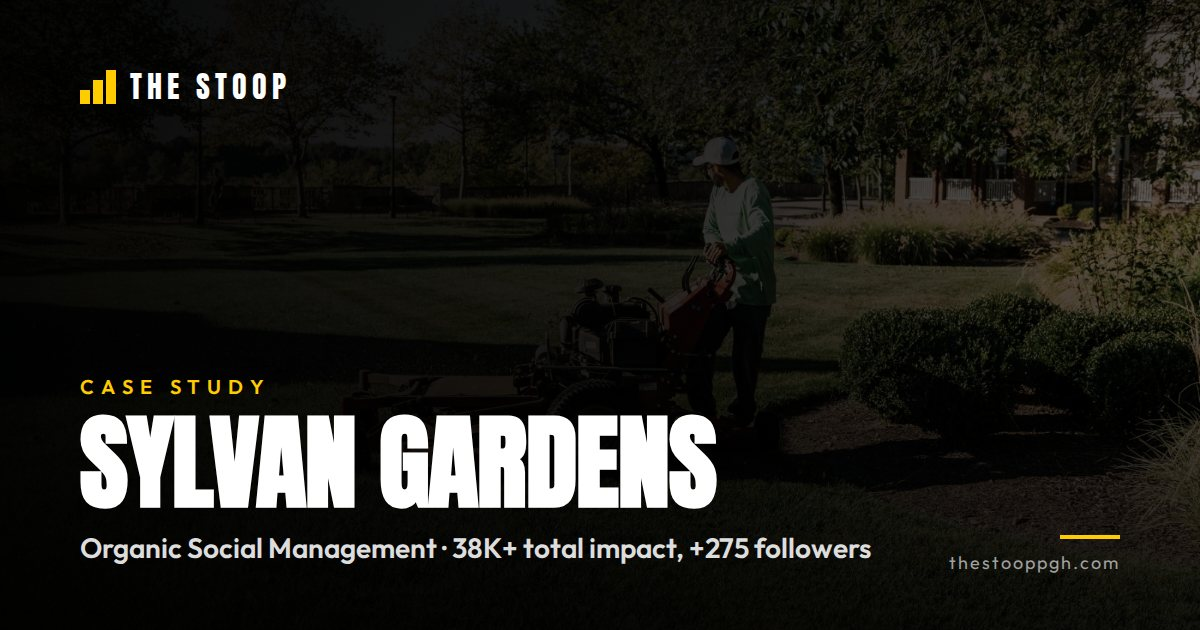
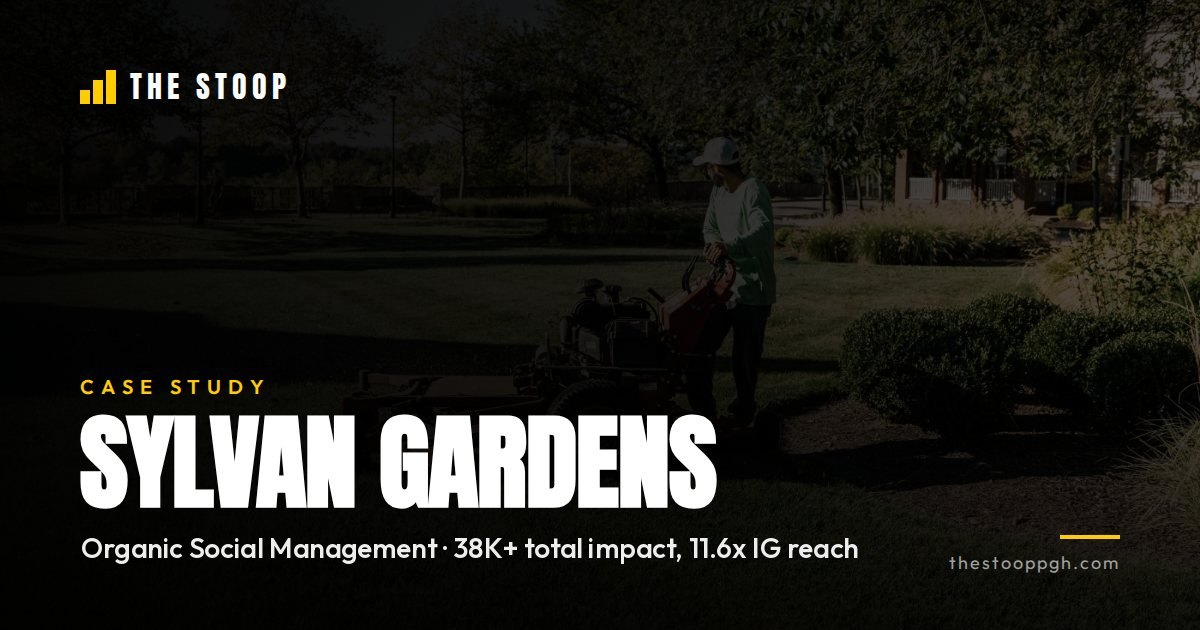
Use Mike's follower baselines for Union Trust and Sylvan Gardens
Union Trust Building: the Q1 2024 report's year-end count (821 IG,
216 FB) is the 2023 baseline, so 2024 follower growth is added:
Instagram 821 -> 1,057 (+29%), Facebook 216 -> 271 (+25%), on the page,
its FAQ (visible and schema) and the llms files.

Sylvan Gardens: the full-year report's net follower gain is the
trusted figure (43 -> 181: Facebook 34 -> 95, Instagram 9 -> 86), so
the nine-month "+275 followers" and the monthly "+N IG followers"
figures come off the site:
- Case study: headline and Results stats (+181 net followers, year
  one), full-year paragraph and list, FAQ (visible and schema); the
  Q2 stat row shows peak IG reach instead of +87 followers
- Home and Work cards, Reviews, FAQ page (visible and schema), Pricing
- Blog post: description, TL;DR, The Numbers (+181, 11.6x IG reach),
  the "more than 4x the year before" context, and the 38K+ source
  corrected to the nine months of monthly reports; blog index excerpt
  and RSS description
- Share image: the subtitle now reads "38K+ total impact, 11.6x IG
  reach" (only that line was redrawn)

Claude-Session: https://claude.ai/code/session_01BuaupkKchAW7EzjXaLCXsE

Changed region(s): [[0.0617, 0.8444, 0.74, 0.9048]]

diff --git a/work/sylvan-gardens.html b/work/sylvan-gardens.html
@@ -61,7 +61,7 @@ j=d.createElement(s),dl=l!='dataLayer'?'&l='+l:'';j.async=true;j.src=
  "description": "How The Stoop managed organic social media, content development, and community management for Sylvan Gardens, a Pittsburgh-area landscaping company.",
  "image": "https://thestooppgh.com/assets/og/sylvan-gardens.jpg",
  "datePublished": "2026-04-17",
- "dateModified": "2026-09-24",
+ "dateModified": "2026-09-25",
  "author": {
   "@type": "Organization",
   "@id": "https://thestooppgh.com/#organization",
@@ -131,7 +131,7 @@ j=d.createElement(s),dl=l!='dataLayer'?'&l='+l:'';j.async=true;j.src=
    "name": "What results did Sylvan Gardens see?",
    "acceptedAnswer": {
     "@type": "Answer",
-    "text": "38,000+ total impact across Facebook and Instagram, 275 net new followers, and a peak Instagram reach of 1,400 in May 2024 over the first nine months of management. Over the full year from April 2024 to April 2025, compared with the year before, Instagram reach grew from 575 to 6,690 accounts and Facebook reach from 2,022 to 4,674."
+    "text": "38,000+ total impact across Facebook and Instagram and a peak Instagram reach of 1,400 in May 2024 over the first nine months of management. Over the full year from April 2024 to April 2025, compared with the year before, Instagram reach grew from 575 to 6,690 accounts, Facebook reach from 2,022 to 4,674, and net follower gain from 43 to 181."
    }
   },
   {
@@ -220,8 +220,8 @@ j=d.createElement(s),dl=l!='dataLayer'?'&l='+l:'';j.async=true;j.src=
       <div class="metric-label">Total Impact (FB + IG)</div>
     </div>
     <div class="metric reveal">
-      <div class="metric-val">+275</div>
-      <div class="metric-label">Net Followers Gained</div>
+      <div class="metric-val">+181</div>
+      <div class="metric-label">Net Followers, Year One</div>
     </div>
     <div class="metric reveal">
       <div class="metric-val">13+</div>
@@ -290,7 +290,7 @@ j=d.createElement(s),dl=l!='dataLayer'?'&l='+l:'';j.async=true;j.src=
 <section class="campaigns" style="background: var(--dark-grey);">
 <div class="section-type-label reveal">Workstream 3 &mdash; Organic Social Media Management</div>
 <h2 class="reveal">Facebook & Instagram Retainer</h2>
-<div class="cs-stats reveal"><div class="cs-stat"><div class="cs-stat-val is-long">20,173</div><div class="cs-stat-label">Combined Impact</div></div><div class="cs-stat"><div class="cs-stat-val">+87</div><div class="cs-stat-label">IG Followers Gained</div></div><div class="cs-stat"><div class="cs-stat-val">2,912</div><div class="cs-stat-label">IG Accounts Reached</div></div></div>
+<div class="cs-stats reveal"><div class="cs-stat"><div class="cs-stat-val is-long">20,173</div><div class="cs-stat-label">Combined Impact</div></div><div class="cs-stat"><div class="cs-stat-val">1,400</div><div class="cs-stat-label">Peak IG Reach (May 2024)</div></div><div class="cs-stat"><div class="cs-stat-val">2,912</div><div class="cs-stat-label">IG Accounts Reached</div></div></div>
 <p class="cs-meta reveal">Q2 2024 &middot; April&ndash;June &middot; Facebook &middot; Instagram &middot; Monthly Analytics Reporting</p>
 <p class="reveal" style="text-align:center; max-width:760px; margin:0 auto 32px; padding:0 24px; font-size:15px; line-height:1.8; color:var(--mid);">A long-term retainer covering the full organic social workflow for Facebook and Instagram &mdash; from the monthly calendar and post creation through community management and analytics reporting.</p>
 <div class="reveal" style="max-width:900px; margin:32px auto 0; padding:0 24px; text-align:center;">
@@ -361,23 +361,23 @@ j=d.createElement(s),dl=l!='dataLayer'?'&l='+l:'';j.async=true;j.src=
 <section class="campaigns">
 <div class="section-type-label reveal">The Results</div>
 <h2 class="reveal">Consistent Content, <span class="accent">Measurable Growth</span></h2>
-<div class="cs-stats reveal cs-stats--big"><div class="cs-stat"><div class="cs-stat-val">38K+</div><div class="cs-stat-label">Total Impact (FB + IG)</div></div><div class="cs-stat"><div class="cs-stat-val">+275</div><div class="cs-stat-label">Net Followers Gained</div></div><div class="cs-stat"><div class="cs-stat-val">13+</div><div class="cs-stat-label">Months Managed</div></div><div class="cs-stat"><div class="cs-stat-val">11.6x</div><div class="cs-stat-label">IG Reach vs. Prior Year</div></div></div>
-<p class="reveal" style="text-align:center; max-width:760px; margin:48px auto 0; padding:0 24px; font-size:15px; line-height:1.8; color:var(--mid);">Over the first nine months of management, The Stoop delivered a combined 38,000+ total impact across Facebook and Instagram, grew the audience by 275 net followers, and produced consistent, professional content that showcased Sylvan Gardens' craftsmanship.</p>
+<div class="cs-stats reveal cs-stats--big"><div class="cs-stat"><div class="cs-stat-val">38K+</div><div class="cs-stat-label">Total Impact (FB + IG)</div></div><div class="cs-stat"><div class="cs-stat-val">+181</div><div class="cs-stat-label">Net Followers, Year One</div></div><div class="cs-stat"><div class="cs-stat-val">13+</div><div class="cs-stat-label">Months Managed</div></div><div class="cs-stat"><div class="cs-stat-val">11.6x</div><div class="cs-stat-label">IG Reach vs. Prior Year</div></div></div>
+<p class="reveal" style="text-align:center; max-width:760px; margin:48px auto 0; padding:0 24px; font-size:15px; line-height:1.8; color:var(--mid);">Over the first nine months of management, The Stoop delivered a combined 38,000+ total impact across Facebook and Instagram and produced consistent, professional content that showcased Sylvan Gardens' craftsmanship.</p>
 <p class="reveal" style="text-align:center; max-width:760px; margin:24px auto 48px; padding:0 24px; font-size:15px; line-height:1.8; color:var(--mid);">The team spotlight series and project showcases became the highest-performing content formats, with posts like 'Meet Jesus,' 'An Incredible Stone Patio Transformation,' and 'Meet the Green Team' driving the strongest engagement. Monthly analytics reporting gave Sylvan Gardens clear visibility into what was working and where to double down.</p>
 <div class="case-content" style="padding:0 24px;">
 <h3 class="reveal" style="font-size:13px; letter-spacing:2px; text-transform:uppercase; margin-bottom:12px;">Monthly Highlights</h3>
 <ul class="reveal cs-list">
-<li>April 2024 &mdash; 7,578 total impact, +49 IG followers, 977 IG accounts reached</li>
-<li>May 2024 &mdash; 7,693 total impact, +13 IG followers, 1,400 IG accounts reached (peak reach)</li>
-<li>June 2024 &mdash; 4,902 total impact, +25 IG followers, 535 IG accounts reached</li>
-<li>Q2 2024 subtotal (Apr&ndash;Jun) &mdash; 20,173 combined impact, +87 IG followers, 2,912 IG accounts reached</li>
-<li>August 2024 &mdash; 4,034 total impact, +18 IG followers, 734 IG accounts reached</li>
-<li>September 2024 &mdash; 3,488 total impact, +12 IG followers, 898 IG accounts reached</li>
-<li>October 2024 &mdash; 4,432 total impact, +14 IG followers, 807 IG accounts reached</li>
-<li>November 2024 &mdash; 2,692 total impact, +8 IG followers, 377 IG accounts reached</li>
-<li>December 2024 &mdash; 2,453 total impact, +5 IG followers, 451 IG accounts reached</li>
+<li>April 2024 &mdash; 7,578 total impact, 977 IG accounts reached</li>
+<li>May 2024 &mdash; 7,693 total impact, 1,400 IG accounts reached (peak reach)</li>
+<li>June 2024 &mdash; 4,902 total impact, 535 IG accounts reached</li>
+<li>Q2 2024 subtotal (Apr&ndash;Jun) &mdash; 20,173 combined impact, 2,912 IG accounts reached</li>
+<li>August 2024 &mdash; 4,034 total impact, 734 IG accounts reached</li>
+<li>September 2024 &mdash; 3,488 total impact, 898 IG accounts reached</li>
+<li>October 2024 &mdash; 4,432 total impact, 807 IG accounts reached</li>
+<li>November 2024 &mdash; 2,692 total impact, 377 IG accounts reached</li>
+<li>December 2024 &mdash; 2,453 total impact, 451 IG accounts reached</li>
 </ul>
-<p class="reveal" style="text-align:center; max-width:760px; margin:40px auto 24px; padding:0; font-size:15px; line-height:1.8; color:var(--mid);">The full-year report told the bigger story. From April 2024 through April 2025, compared with the year before The Stoop took over (March 2023 to March 2024), Instagram reached 6,690 accounts, up from 575, and content interactions rose from 47 to 1,785. On Facebook, reach grew from 2,022 to 4,674 accounts, interactions from 61 to 1,189, and page visits from 1,713 to 6,491. Over the year, the content drew 30,257 views on Facebook and 22,872 on Instagram.</p>
+<p class="reveal" style="text-align:center; max-width:760px; margin:40px auto 24px; padding:0; font-size:15px; line-height:1.8; color:var(--mid);">The full-year report told the bigger story. From April 2024 through April 2025, compared with the year before The Stoop took over (March 2023 to March 2024), Instagram reached 6,690 accounts, up from 575, and content interactions rose from 47 to 1,785. On Facebook, reach grew from 2,022 to 4,674 accounts, interactions from 61 to 1,189, and page visits from 1,713 to 6,491. Net follower gain rose from 43 to 181 across the two platforms: 34 to 95 on Facebook and 9 to 86 on Instagram. Over the year, the content drew 30,257 views on Facebook and 22,872 on Instagram.</p>
 <h3 class="reveal" style="font-size:13px; letter-spacing:2px; text-transform:uppercase; margin-bottom:12px;">Full Year vs. the Year Before</h3>
 <ul class="reveal cs-list">
 <li>Instagram accounts reached &mdash; 575 &rarr; 6,690 (11.6x)</li>
@@ -386,6 +386,7 @@ j=d.createElement(s),dl=l!='dataLayer'?'&l='+l:'';j.async=true;j.src=
 <li>Facebook accounts reached &mdash; 2,022 &rarr; 4,674 (2.3x)</li>
 <li>Facebook content interactions &mdash; 61 &rarr; 1,189</li>
 <li>Facebook page visits &mdash; 1,713 &rarr; 6,491 (3.8x)</li>
+<li>Net follower gain &mdash; 43 &rarr; 181 (Facebook 34 &rarr; 95, Instagram 9 &rarr; 86)</li>
 <li>Views, April 2024 &ndash; April 2025 &mdash; 30,257 on Facebook, 22,872 on Instagram</li>
 </ul>
 </div>
@@ -402,7 +403,7 @@ j=d.createElement(s),dl=l!='dataLayer'?'&l='+l:'';j.async=true;j.src=
   <div style="max-width:800px; margin:24px auto 0; padding:0 24px;">
     <details class="reveal" style="border-bottom:1px solid rgba(255,255,255,0.06); padding:20px 0;">
       <summary style="font-size:15px; font-weight:700; color:var(--white); cursor:pointer; list-style:none; display:flex; justify-content:space-between; align-items:center; gap:16px;">What results did Sylvan Gardens see? <span style="color:var(--yellow);">+</span></summary>
-      <p style="font-size:14px; line-height:1.8; color:var(--mid); margin-top:12px;">38,000+ total impact across Facebook and Instagram, 275 net new followers, and a peak Instagram reach of 1,400 in May 2024 over the first nine months of management. Over the full year from April 2024 to April 2025, compared with the year before, Instagram reach grew from 575 to 6,690 accounts and Facebook reach from 2,022 to 4,674.</p>
+      <p style="font-size:14px; line-height:1.8; color:var(--mid); margin-top:12px;">38,000+ total impact across Facebook and Instagram and a peak Instagram reach of 1,400 in May 2024 over the first nine months of management. Over the full year from April 2024 to April 2025, compared with the year before, Instagram reach grew from 575 to 6,690 accounts, Facebook reach from 2,022 to 4,674, and net follower gain from 43 to 181.</p>
     </details>
     <details class="reveal" style="border-bottom:1px solid rgba(255,255,255,0.06); padding:20px 0;">
       <summary style="font-size:15px; font-weight:700; color:var(--white); cursor:pointer; list-style:none; display:flex; justify-content:space-between; align-items:center; gap:16px;">What did the retainer include? <span style="color:var(--yellow);">+</span></summary>

diff --git a/blog/organic-social-growth-landscaping.html b/blog/organic-social-growth-landscaping.html
@@ -29,9 +29,9 @@ j=d.createElement(s),dl=l!='dataLayer'?'&l='+l:'';j.async=true;j.src=
 <script>document.documentElement.classList.add('js');</script>
 <meta name="viewport" content="width=device-width, initial-scale=1.0, viewport-fit=cover">
 <title>9 Months of Organic Social for a Landscaper — THE STOOP</title>
-<meta name="description" content="How a strategy-first, organic-only approach drove 38K+ impact and +275 followers for Sylvan Gardens across 9 months of social media management.">
+<meta name="description" content="How a strategy-first, organic-only approach drove 38K+ impact in nine months and four times the prior year’s follower growth for Sylvan Gardens.">
 <meta property="og:title" content="9 Months of Organic Social: Growing a Landscaping Business on Instagram — THE STOOP">
-<meta property="og:description" content="How a strategy-first, organic-only approach drove 38K+ impact and +275 followers for Sylvan Gardens across 9 months.">
+<meta property="og:description" content="How a strategy-first, organic-only approach drove 38K+ impact in nine months and four times the prior year’s follower growth for Sylvan Gardens.">
 <meta property="og:type" content="article">
 <meta property="article:published_time" content="2026-03-11">
 <meta property="article:modified_time" content="2026-04-18">
@@ -61,10 +61,10 @@ j=d.createElement(s),dl=l!='dataLayer'?'&l='+l:'';j.async=true;j.src=
  "@type": "BlogPosting",
  "@id": "https://thestooppgh.com/blog/organic-social-growth-landscaping.html#article",
  "headline": "9 Months of Organic Social: Growing a Landscaping Business on Instagram",
- "description": "How a strategy-first, organic-only approach drove 38K+ impact and +275 followers for Sylvan Gardens across 9 months of social media management.",
+ "description": "How a strategy-first, organic-only approach drove 38K+ impact in nine months and four times the prior year’s follower growth for Sylvan Gardens.",
  "image": "https://thestooppgh.com/assets/og/organic-social-growth-landscaping.png",
  "datePublished": "2026-03-11",
- "dateModified": "2026-04-18",
+ "dateModified": "2026-09-25",
  "author": {
   "@type": "Person",
   "@id": "https://thestooppgh.com/founder.html#person",
@@ -163,7 +163,7 @@ j=d.createElement(s),dl=l!='dataLayer'?'&l='+l:'';j.async=true;j.src=
 
 <div class="article-body">
 
-  <div class="reveal" style="background:rgba(255,204,0,0.05);border:1px solid rgba(255,204,0,0.15);padding:24px;margin-bottom:32px;font-size:14px;line-height:1.8;color:var(--mid);"><strong>TL;DR:</strong> 9 months of organic-only social media management for Sylvan Gardens (Pittsburgh landscaping company) drove 38K+ total impact and +275 net followers with zero ad spend. Strategy-first approach: content audit before posting, 5 content pillars, consistent 3-4 posts/week.</div>
+  <div class="reveal" style="background:rgba(255,204,0,0.05);border:1px solid rgba(255,204,0,0.15);padding:24px;margin-bottom:32px;font-size:14px;line-height:1.8;color:var(--mid);"><strong>TL;DR:</strong> 9 months of organic-only social media management for Sylvan Gardens (Pittsburgh landscaping company) drove 38K+ total impact with zero ad spend. Over the first full year, net follower gain rose from 43 to 181. Strategy-first approach: content audit before posting, 5 content pillars, consistent 3-4 posts/week.</div>
 
   <h2 class="reveal">The Challenge</h2>
   <p class="reveal">Sylvan Gardens is a residential and commercial landscaping company based in Ingomar, PA. When The Stoop came on in April 2024, the numbers told a frustrating story:</p>
@@ -205,11 +205,11 @@ j=d.createElement(s),dl=l!='dataLayer'?'&l='+l:'';j.async=true;j.src=
   <h2 class="reveal">The Numbers</h2>
   <div class="stat-grid reveal">
     <div class="stat-box"><div class="num">38K+</div><div class="label">Total Impact</div></div>
-    <div class="stat-box"><div class="num">+275</div><div class="label">Net New Followers</div></div>
-    <div class="stat-box"><div class="num">9 mo.</div><div class="label">Engagement Duration</div></div>
+    <div class="stat-box"><div class="num">+181</div><div class="label">Net New Followers, Year One</div></div>
+    <div class="stat-box"><div class="num">11.6x</div><div class="label">Instagram Reach, Year One</div></div>
   </div>
-  <p class="reveal">Context on why +275 is meaningful: Sylvan Gardens' prior-year organic growth was 43 followers for the entire year. We delivered <strong>more than 6x that growth in 9 months &mdash; without spending a dollar on ads.</strong></p>
-  <p class="reveal">The 38K+ total impact number reflects impressions, reach, and engagement across Facebook and Instagram combined, captured in the Full Year Analytical Report we delivered at wrap. Employee Spotlights and Install showcase posts drove the strongest per-post performance.</p>
+  <p class="reveal">Context on why +181 is meaningful: in the year before The Stoop started (March 2023 to March 2024), Sylvan Gardens gained 43 net followers across Facebook and Instagram. Over the first full year of management it gained 181, <strong>more than four times as many, without spending a dollar on ads.</strong></p>
+  <p class="reveal">The 38K+ total impact number reflects impressions, reach, and engagement across Facebook and Instagram combined over the first nine months of monthly reports. The full-year report (April 2024 to April 2025) showed Instagram reach up from 575 to 6,690 accounts and Facebook reach up from 2,022 to 4,674, compared with the year before. Employee Spotlights and Install showcase posts drove the strongest per-post performance.</p>
 
   <h2 class="reveal">Why Organic Still Matters</h2>
   <p class="reveal">It is fashionable in marketing to say "organic is dead." It isn't &mdash; it's just slower, harder, and more dependent on craft. For service businesses like landscaping, organic social delivers something paid can't:</p>
@@ -237,7 +237,7 @@ j=d.createElement(s),dl=l!='dataLayer'?'&l='+l:'';j.async=true;j.src=
   </div>
   <div class="reveal" style="border-bottom:1px solid rgba(255,255,255,0.06);padding:20px 0;">
     <h3 style="font-size:15px;font-weight:700;color:var(--white);margin-bottom:10px;">Can you grow social media without paid ads?</h3>
-    <p style="font-size:14px;line-height:1.8;color:var(--mid);">Yes. Sylvan Gardens achieved 38K+ total impact and +275 followers over 9 months with zero ad spend through consistent, diversified content.</p>
+    <p style="font-size:14px;line-height:1.8;color:var(--mid);">Yes. Sylvan Gardens achieved 38K+ total impact in the first 9 months, and 181 net new followers over the first full year, with zero ad spend through consistent, diversified content.</p>
   </div>
 
   <div class="cta-box reveal">

diff --git a/work/union-trust-building.html b/work/union-trust-building.html
@@ -139,7 +139,7 @@ j=d.createElement(s),dl=l!='dataLayer'?'&l='+l:'';j.async=true;j.src=
    "name": "What results did the Union Trust Building see?",
    "acceptedAnswer": {
     "@type": "Answer",
-    "text": "Instagram followers grew from 821 to 1,004 (+22%) between the end of 2023 and the end of Q2 2024, and quarterly Instagram reach grew from 3,052 to 8,000 accounts over the same span. Instagram content interactions rose from 311 to 1,100 quarter over quarter after monthly management began. Across all of 2024, compared with 2023, Instagram accounts reached grew from 4,200 to 16,600 and Instagram views from 6,100 to 24,100."
+    "text": "Instagram followers grew from 821 to 1,004 (+22%) between the end of 2023 and the end of Q2 2024, and quarterly Instagram reach grew from 3,052 to 8,000 accounts over the same span. Instagram content interactions rose from 311 to 1,100 quarter over quarter after monthly management began. Across all of 2024, compared with 2023, Instagram accounts reached grew from 4,200 to 16,600, Instagram views from 6,100 to 24,100, and Instagram followers from 821 to 1,057 (+29%)."
    }
   },
   {
@@ -431,7 +431,7 @@ j=d.createElement(s),dl=l!='dataLayer'?'&l='+l:'';j.async=true;j.src=
 <li>Q2 2024 &mdash; 12,700 Facebook impressions, up from 12,100 in Q1</li>
 <li>Dec 2023 &ndash; Mar 2025 &mdash; 49,738 Instagram and 14,111 Facebook views logged across 219 posts and stories</li>
 </ul>
-<p class="reveal" style="text-align:center; max-width:760px; margin:40px auto 24px; padding:0; font-size:15px; line-height:1.8; color:var(--mid);">The full year held up. In 2024, the first full year of monthly management, Instagram reached 16,600 accounts, up from 4,200 in 2023, and drew 24,100 views, up from 6,100. Content interactions rose from 255 to 1,000 on Instagram and from 218 to 1,500 on Facebook, where reach grew from 8,000 to 11,600 accounts. The Instagram account ended 2024 at 1,057 followers. The Stoop took over in October 2023, so the 2023 figures already include its first three months.</p>
+<p class="reveal" style="text-align:center; max-width:760px; margin:40px auto 24px; padding:0; font-size:15px; line-height:1.8; color:var(--mid);">The full year held up. In 2024, the first full year of monthly management, Instagram reached 16,600 accounts, up from 4,200 in 2023, and drew 24,100 views, up from 6,100. Content interactions rose from 255 to 1,000 on Instagram and from 218 to 1,500 on Facebook, where reach grew from 8,000 to 11,600 accounts. Instagram followers grew from 821 at the end of 2023 to 1,057 at the end of 2024, up 29%. The Stoop took over in October 2023, so the 2023 figures already include its first three months.</p>
 <h3 class="reveal" style="font-size:13px; letter-spacing:2px; text-transform:uppercase; margin-bottom:12px;">2024 vs. 2023</h3>
 <ul class="reveal cs-list">
 <li>Instagram accounts reached &mdash; 4,200 &rarr; 16,600</li>
@@ -441,7 +441,8 @@ j=d.createElement(s),dl=l!='dataLayer'?'&l='+l:'';j.async=true;j.src=
 <li>Facebook accounts reached &mdash; 8,000 &rarr; 11,600</li>
 <li>Facebook content interactions &mdash; 218 &rarr; 1,500</li>
 <li>Facebook page visits &mdash; 1,600 &rarr; 2,500</li>
-<li>Followers at the end of 2024 &mdash; 1,057 on Instagram, 271 on Facebook</li>
+<li>Instagram followers &mdash; 821 &rarr; 1,057 (+29%)</li>
+<li>Facebook followers &mdash; 216 &rarr; 271 (+25%)</li>
 </ul>
 </div>
 <div class="reveal" style="text-align:center; margin-top:32px;">
@@ -457,7 +458,7 @@ j=d.createElement(s),dl=l!='dataLayer'?'&l='+l:'';j.async=true;j.src=
   <div style="max-width:800px; margin:24px auto 0; padding:0 24px;">
     <details class="reveal" style="border-bottom:1px solid rgba(255,255,255,0.06); padding:20px 0;">
       <summary style="font-size:15px; font-weight:700; color:var(--white); cursor:pointer; list-style:none; display:flex; justify-content:space-between; align-items:center; gap:16px;">What results did the Union Trust Building see? <span style="color:var(--yellow);">+</span></summary>
-      <p style="font-size:14px; line-height:1.8; color:var(--mid); margin-top:12px;">Instagram followers grew from 821 to 1,004 (+22%) between the end of 2023 and the end of Q2 2024, and quarterly Instagram reach grew from 3,052 to 8,000 accounts over the same span. Instagram content interactions rose from 311 to 1,100 quarter over quarter after monthly management began. Across all of 2024, compared with 2023, Instagram accounts reached grew from 4,200 to 16,600 and Instagram views from 6,100 to 24,100.</p>
+      <p style="font-size:14px; line-height:1.8; color:var(--mid); margin-top:12px;">Instagram followers grew from 821 to 1,004 (+22%) between the end of 2023 and the end of Q2 2024, and quarterly Instagram reach grew from 3,052 to 8,000 accounts over the same span. Instagram content interactions rose from 311 to 1,100 quarter over quarter after monthly management began. Across all of 2024, compared with 2023, Instagram accounts reached grew from 4,200 to 16,600, Instagram views from 6,100 to 24,100, and Instagram followers from 821 to 1,057 (+29%).</p>
     </details>
     <details class="reveal" style="border-bottom:1px solid rgba(255,255,255,0.06); padding:20px 0;">
       <summary style="font-size:15px; font-weight:700; color:var(--white); cursor:pointer; list-style:none; display:flex; justify-content:space-between; align-items:center; gap:16px;">What did the engagement include? <span style="color:var(--yellow);">+</span></summary>

diff --git a/faq.html b/faq.html
@@ -151,7 +151,7 @@ j=d.createElement(s),dl=l!='dataLayer'?'&l='+l:'';j.async=true;j.src=
    "name": "How long does it take to see results from organic social?",
    "acceptedAnswer": {
     "@type": "Answer",
-    "text": "Organic social is a long game. Expect 3–6 months of consistent posting to build meaningful momentum. For Sylvan Gardens, we drove 38K+ total impact and +275 net followers over 9 months of management — all with zero ad spend. The compound effect of consistent, quality content is the value proposition."
+    "text": "Organic social is a long game. Expect 3–6 months of consistent posting to build meaningful momentum. For Sylvan Gardens, we drove 38K+ total impact in the first 9 months, then 181 net new followers over the first full year, more than four times the year before — all with zero ad spend. The compound effect of consistent, quality content is the value proposition."
    }
   },
   {
@@ -312,7 +312,7 @@ j=d.createElement(s),dl=l!='dataLayer'?'&l='+l:'';j.async=true;j.src=
 
   <div class="reveal" style="border-bottom:1px solid rgba(255,255,255,0.06); padding:24px 0;">
     <h3 style="font-size:16px; font-weight:700; color:var(--white); margin-bottom:12px;">How long does it take to see results from organic social?</h3>
-    <p style="font-size:14px; line-height:1.8; color:var(--mid);">Organic social is a long game. Expect 3&ndash;6 months of consistent posting to build meaningful momentum. For Sylvan Gardens, we drove 38K+ total impact and +275 net followers over 9 months of management &mdash; all with zero ad spend. The compound effect of consistent, quality content is the value proposition.</p>
+    <p style="font-size:14px; line-height:1.8; color:var(--mid);">Organic social is a long game. Expect 3&ndash;6 months of consistent posting to build meaningful momentum. For Sylvan Gardens, we drove 38K+ total impact in the first 9 months, then 181 net new followers over the first full year, more than four times the year before &mdash; all with zero ad spend. The compound effect of consistent, quality content is the value proposition.</p>
   </div>
 
   <h2 class="reveal">Content Development</h2>

diff --git a/reviews.html b/reviews.html
@@ -189,10 +189,10 @@ j=d.createElement(s),dl=l!='dataLayer'?'&l='+l:'';j.async=true;j.src=
 
   <div class="reveal" style="background:rgba(255,255,255,0.02); border:1px solid rgba(255,255,255,0.06); padding:32px; margin-bottom:20px;">
     <h3 style="font-size:16px; font-weight:700; color:var(--yellow); margin-bottom:8px;">Sylvan Gardens &mdash; Landscaping</h3>
-    <p style="font-size:14px; color:var(--mid); line-height:1.8; margin-bottom:16px;">9 months organic social management, Facebook + Instagram</p>
+    <p style="font-size:14px; color:var(--mid); line-height:1.8; margin-bottom:16px;">13+ months of organic social management, Facebook + Instagram</p>
     <div class="stat-grid">
-      <div class="stat-box"><div class="num">38K+</div><div class="label">Total Impact</div></div>
-      <div class="stat-box"><div class="num">+275</div><div class="label">Followers</div></div>
+      <div class="stat-box"><div class="num">38K+</div><div class="label">9-Month Impact</div></div>
+      <div class="stat-box"><div class="num">+181</div><div class="label">Followers, Year One</div></div>
       <div class="stat-box"><div class="num">$0</div><div class="label">Ad Spend</div></div>
     </div>
     <a href="work/sylvan-gardens.html" style="color:var(--yellow); font-size:12px; letter-spacing:2px; text-transform:uppercase; text-decoration:none;">View Full Case Study &rarr;</a>

diff --git a/pricing.html b/pricing.html
@@ -165,7 +165,7 @@ j=d.createElement(s),dl=l!='dataLayer'?'&l='+l:'';j.async=true;j.src=
     <li><strong>Content shoots:</strong> Monthly on-site photography/videography (up to 4&ndash;8 hours)</li>
     <li><strong>Reporting:</strong> Monthly analytics with platform benchmarks and quarterly strategy reviews</li>
   </ul>
-  <p class="reveal"><strong>Real example:</strong> Sylvan Gardens &mdash; 9 months, 38K+ total impact, +275 followers, $0 ad spend.</p>
+  <p class="reveal"><strong>Real example:</strong> Sylvan Gardens &mdash; 38K+ total impact in 9 months, 181 net new followers in the first year, $0 ad spend.</p>
   <div class="reveal" style="margin:24px 0;"><a href="/contact?service=organic-social" class="btn btn-primary">Get an Organic Social Proposal</a></div>
 
   <h2 class="reveal">Content Development</h2>

diff --git a/blog/index.html b/blog/index.html
@@ -237,7 +237,7 @@ j=d.createElement(s),dl=l!='dataLayer'?'&l='+l:'';j.async=true;j.src=
     <a href="organic-social-growth-landscaping.html" class="blog-card reveal">
       <div class="blog-category">Case Study Breakdown</div>
       <h2>9 Months of Organic Social: Growing a Landscaping Business on Instagram</h2>
-      <p class="blog-excerpt">38K+ impact and +275 followers &mdash; without a dollar of ad spend. The Sylvan Gardens playbook for service businesses.</p>
+      <p class="blog-excerpt">38K+ impact in nine months and four times the prior year&rsquo;s follower growth &mdash; without a dollar of ad spend. The Sylvan Gardens playbook for service businesses.</p>
       <div class="blog-meta">March 2026 &middot; 8 min read</div>
       <span class="read-more">Read Article &rarr;</span>
     </a>

diff --git a/index.html b/index.html
@@ -602,7 +602,7 @@ j=d.createElement(s),dl=l!='dataLayer'?'&l='+l:'';j.async=true;j.src=
         <div class="case-metrics">
           <div><div class="case-metric-val">13+</div><div class="case-metric-label">Months Managed</div></div>
           <div><div class="case-metric-val">11.6x</div><div class="case-metric-label">IG Reach YoY</div></div>
-          <div><div class="case-metric-val">+275</div><div class="case-metric-label">Followers Gained</div></div>
+          <div><div class="case-metric-val">+181</div><div class="case-metric-label">Followers, Year One</div></div>
           <div><div class="case-metric-val">38K+</div><div class="case-metric-label">Total Impact</div></div>
         </div>
         <span class="case-link">View Case Study</span>

diff --git a/work/index.html b/work/index.html
@@ -377,7 +377,7 @@ j=d.createElement(s),dl=l!='dataLayer'?'&l='+l:'';j.async=true;j.src=
         <div class="case-metrics">
           <div><div class="case-metric-val">13+</div><div class="case-metric-label">Months Managed</div></div>
           <div><div class="case-metric-val">11.6x</div><div class="case-metric-label">IG Reach YoY</div></div>
-          <div><div class="case-metric-val">+275</div><div class="case-metric-label">Followers Gained</div></div>
+          <div><div class="case-metric-val">+181</div><div class="case-metric-label">Followers, Year One</div></div>
           <div><div class="case-metric-val">38K+</div><div class="case-metric-label">Total Impact</div></div>
         </div>
         <span class="case-link">View Case Study</span>
